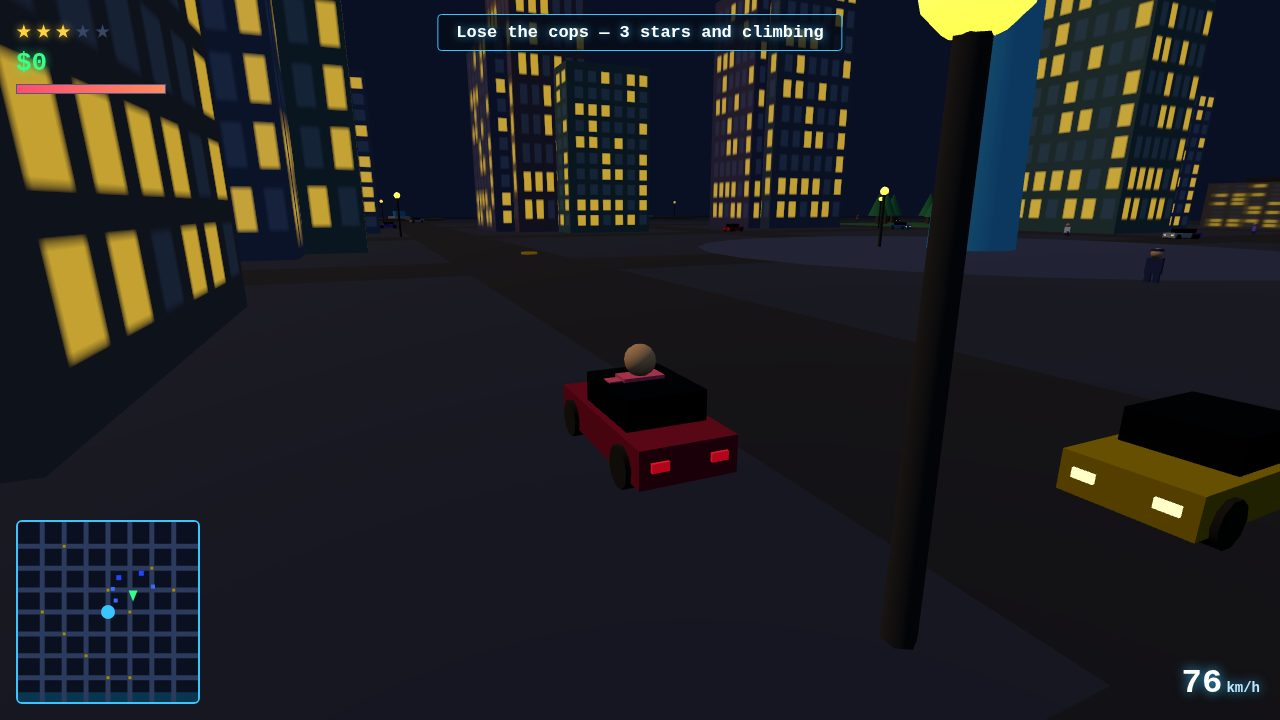
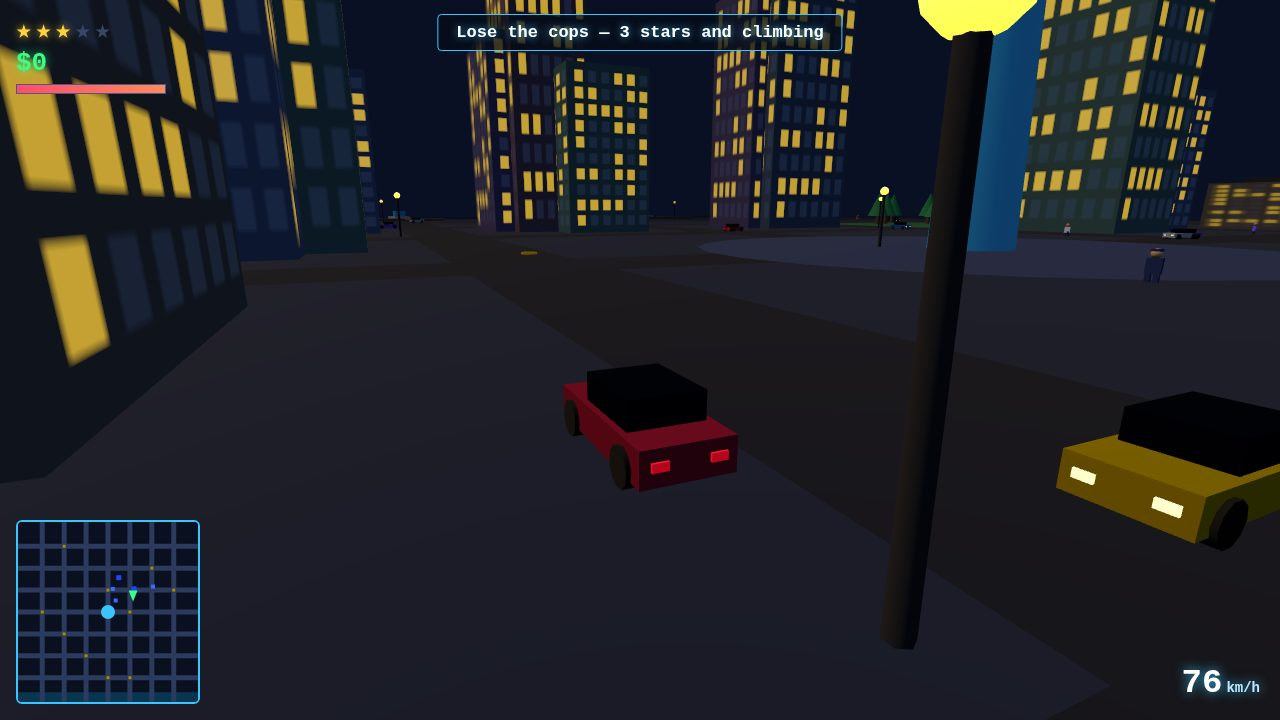
chase shot: police car placed ahead-right in frame

diff --git a/game/js/main.js b/game/js/main.js
@@ -171,12 +171,13 @@ function applyShot() {
     G.driving.car.angle = 0;
     G.police.addHeat(78, G);
     G.police.update(0.1, G);
-    // pull one police car into frame, 18 m behind the getaway car
+    // put one police car in frame: ahead-right, facing the getaway car
     const pc = G.police.copCars[0];
     if (pc) {
-      pc.pos.set(G.player.pos.x + 5, 0, G.player.pos.z - 18);
-      pc.heading = 0; pc.speed = 22;
+      pc.pos.set(G.player.pos.x + 14, 0, G.player.pos.z + 28);
+      pc.heading = 2.8; pc.speed = 0;
       pc.mesh.position.copy(pc.pos);
+      pc.mesh.rotation.y = pc.heading;
     }
     G.hud.setObjective('Lose the cops — 3 stars and climbing');
   } else if (SHOT === 'street') {
